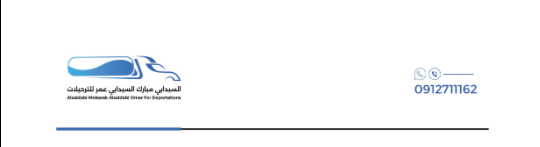
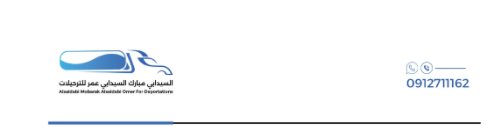
=background issue fixed 2

diff --git a/resources/js/pages/reports/PeriodReport.vue b/resources/js/pages/reports/PeriodReport.vue
@@ -59,17 +59,9 @@ function print() {
                     class="mb-4 w-full object-contain"
                     alt="Report Header"
                 />
-                <div class="flex items-center justify-center gap-4">
-                    <img
-                        v-if="settings.logo"
-                        :src="`/image/logo/${settings.logo}`"
-                        class="h-20 w-20 object-contain print:h-16 print:w-16"
-                        alt="logo"
-                    />
-                    <div class="text-center">
-                        <h1 class="text-xl font-bold">{{ settings.name }}</h1>
-                        <p class="text-sm font-semibold">تقرير الفترة</p>
-                    </div>
+                <div class="text-center">
+                    <h1 class="text-xl font-bold">{{ settings.name }}</h1>
+                    <p class="text-sm font-semibold">تقرير الفترة</p>
                 </div>
                 <p
                     v-if="filters.start_date || filters.end_date"
@@ -98,12 +90,6 @@ function print() {
                 class="flex flex-col gap-4 md:flex-row md:items-center md:justify-between"
             >
                 <div class="flex items-center gap-2">
-                    <img
-                        v-if="settings.logo"
-                        :src="`/image/logo/${settings.logo}`"
-                        class="h-14 w-14 object-contain"
-                        alt="logo"
-                    />
                     <div>
                         <h1 class="text-2xl font-bold">تقرير الفترة</h1>
                         <p

diff --git a/resources/js/pages/reports/CompanyReport.vue b/resources/js/pages/reports/CompanyReport.vue
@@ -109,12 +109,6 @@ const printReport = () => {
                             {{ settings.note }}
                         </p>
                     </div>
-                    <img
-                        v-if="settings.logo"
-                        :src="`/image/logo/${settings.logo}`"
-                        class="ms-auto h-20 w-20 object-contain print:h-16 print:w-16"
-                        alt="logo"
-                    />
                 </div>
                 <div class="px-6 pb-6 print:px-4 print:pb-4">
                     <div
@@ -317,15 +311,15 @@ const printReport = () => {
                     </div>
                 </div>
             </div>
-        </div>
 
-        <!-- Print Footer -->
-        <div>
-            <img
-                src="/image/reports/report_footer.png"
-                class="mt-4 w-full object-contain"
-                alt="Report Footer"
-            />
+            <!-- Print Footer -->
+            <div>
+                <img
+                    src="/image/reports/report_footer.png"
+                    class="mt-4 w-full object-contain"
+                    alt="Report Footer"
+                />
+            </div>
         </div>
     </AppLayout>
 </template>

diff --git a/resources/js/pages/reports/CustomerReport.vue b/resources/js/pages/reports/CustomerReport.vue
@@ -112,12 +112,6 @@ const printReport = () => {
                             {{ settings.note }}
                         </p>
                     </div>
-                    <img
-                        v-if="settings.logo"
-                        :src="`/image/logo/${settings.logo}`"
-                        class="ms-auto h-20 w-20 object-contain print:h-16 print:w-16"
-                        alt="logo"
-                    />
                 </div>
                 <div class="px-6 pb-6 print:px-4 print:pb-4">
                     <div
@@ -320,15 +314,15 @@ const printReport = () => {
                     </div>
                 </div>
             </div>
-        </div>
 
-        <!-- Print Footer -->
-        <div>
-            <img
-                src="/image/reports/report_footer.png"
-                class="mt-4 w-full object-contain"
-                alt="Report Footer"
-            />
+            <!-- Print Footer -->
+            <div>
+                <img
+                    src="/image/reports/report_footer.png"
+                    class="mt-4 w-full object-contain"
+                    alt="Report Footer"
+                />
+            </div>
         </div>
     </AppLayout>
 </template>

diff --git a/resources/js/pages/reports/DestinationReport.vue b/resources/js/pages/reports/DestinationReport.vue
@@ -109,12 +109,6 @@ const printReport = () => {
                             {{ settings.note }}
                         </p>
                     </div>
-                    <img
-                        v-if="settings.logo"
-                        :src="`/image/logo/${settings.logo}`"
-                        class="ms-auto h-20 w-20 object-contain print:h-16 print:w-16"
-                        alt="logo"
-                    />
                 </div>
                 <div class="px-6 pb-6 print:px-4 print:pb-4">
                     <div
@@ -317,15 +311,15 @@ const printReport = () => {
                     </div>
                 </div>
             </div>
-        </div>
 
-        <!-- Print Footer -->
-        <div>
-            <img
-                src="/image/reports/report_footer.png"
-                class="mt-4 w-full object-contain"
-                alt="Report Footer"
-            />
+            <!-- Print Footer -->
+            <div>
+                <img
+                    src="/image/reports/report_footer.png"
+                    class="mt-4 w-full object-contain"
+                    alt="Report Footer"
+                />
+            </div>
         </div>
     </AppLayout>
 </template>

diff --git a/resources/js/pages/reports/DriverReport.vue b/resources/js/pages/reports/DriverReport.vue
@@ -112,12 +112,6 @@ const printReport = () => {
                             {{ settings.note }}
                         </p>
                     </div>
-                    <img
-                        v-if="settings.logo"
-                        :src="`/image/logo/${settings.logo}`"
-                        class="ms-auto h-20 w-20 object-contain print:h-16 print:w-16"
-                        alt="logo"
-                    />
                 </div>
                 <div class="px-6 pb-6 print:px-4 print:pb-4">
                     <div
@@ -320,15 +314,15 @@ const printReport = () => {
                     </div>
                 </div>
             </div>
-        </div>
 
-        <!-- Print Footer -->
-        <div>
-            <img
-                src="/image/reports/report_footer.png"
-                class="mt-4 w-full object-contain"
-                alt="Report Footer"
-            />
+            <!-- Print Footer -->
+            <div>
+                <img
+                    src="/image/reports/report_footer.png"
+                    class="mt-4 w-full object-contain"
+                    alt="Report Footer"
+                />
+            </div>
         </div>
     </AppLayout>
 </template>
